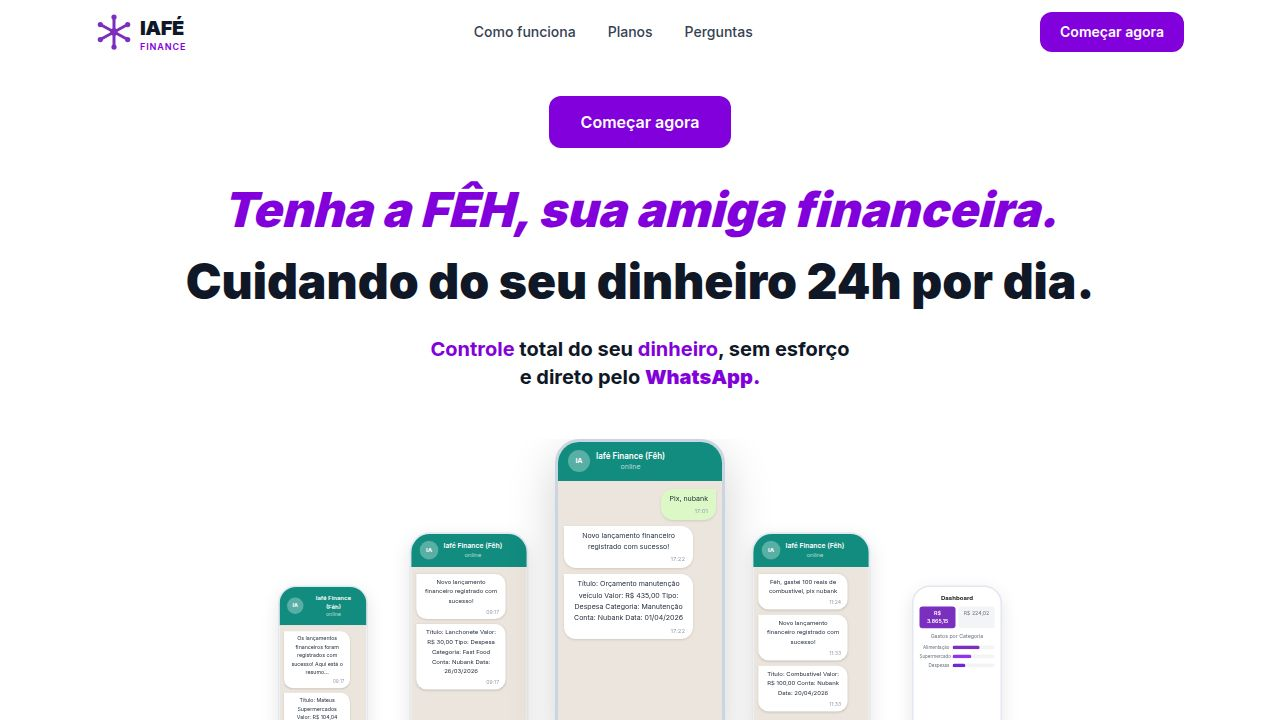
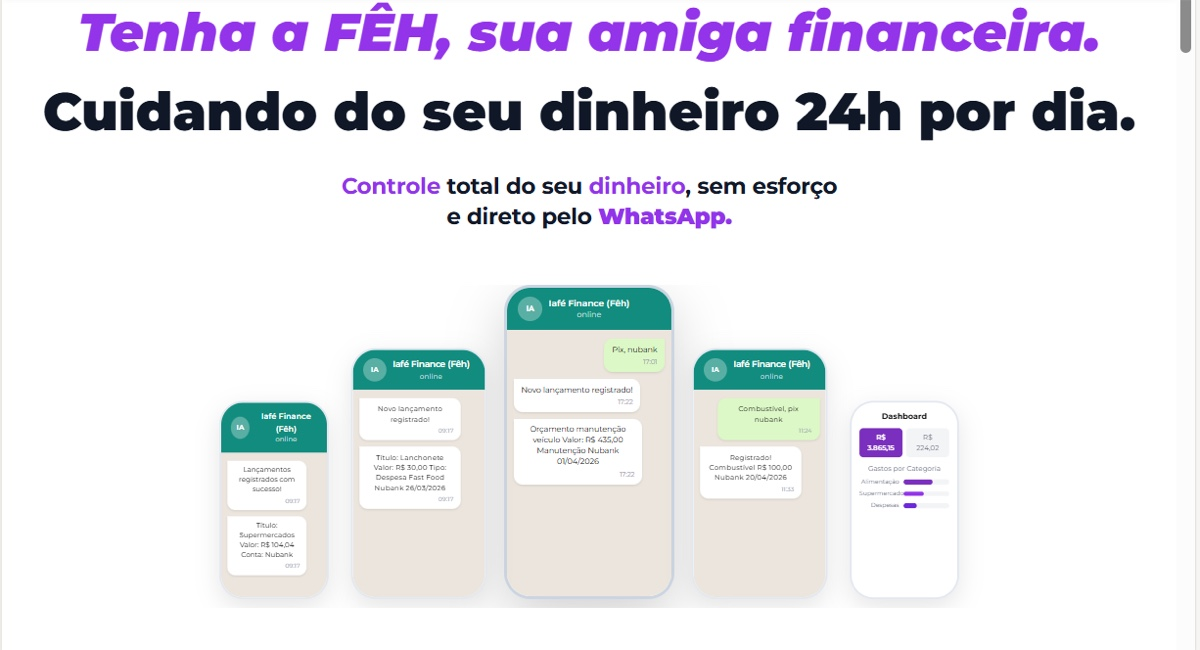
Atualiza preview Open Graph do WhatsApp com layout atual da LP.
Nova imagem opengraph.jpg e meta tags com URL absoluta para lpfi.iafeoficial.com.

diff --git a/artifacts/iafe-finance/index.html b/artifacts/iafe-finance/index.html
@@ -6,14 +6,22 @@
     <title>IAFÉ Finance — Sua amiga financeira no WhatsApp</title>
     <meta name="description" content="Controle total do seu dinheiro, sem esforço e direto pelo WhatsApp. Conheça a FÊH, assistente financeira com IA da IAFÉ Finance." />
     <meta name="robots" content="index, follow" />
+    <meta property="og:site_name" content="IAFÉ Finance" />
+    <meta property="og:locale" content="pt_BR" />
+    <meta property="og:url" content="https://lpfi.iafeoficial.com/" />
     <meta property="og:title" content="IAFÉ Finance — Sua amiga financeira no WhatsApp" />
     <meta property="og:description" content="Controle total do seu dinheiro, sem esforço e direto pelo WhatsApp. Conheça a FÊH, assistente financeira com IA." />
     <meta property="og:type" content="website" />
-    <meta property="og:image" content="/opengraph.jpg" />
+    <meta property="og:image" content="https://lpfi.iafeoficial.com/opengraph.jpg?v=2" />
+    <meta property="og:image:secure_url" content="https://lpfi.iafeoficial.com/opengraph.jpg?v=2" />
+    <meta property="og:image:type" content="image/jpeg" />
+    <meta property="og:image:width" content="1200" />
+    <meta property="og:image:height" content="650" />
+    <meta property="og:image:alt" content="IAFÉ Finance — controle financeiro pelo WhatsApp com a FÊH" />
     <meta name="twitter:card" content="summary_large_image" />
     <meta name="twitter:title" content="IAFÉ Finance — Sua amiga financeira no WhatsApp" />
     <meta name="twitter:description" content="Controle total do seu dinheiro, sem esforço e direto pelo WhatsApp." />
-    <meta name="twitter:image" content="/opengraph.jpg" />
+    <meta name="twitter:image" content="https://lpfi.iafeoficial.com/opengraph.jpg?v=2" />
     <link rel="icon" type="image/svg+xml" href="/favicon.svg" />
     <link rel="preconnect" href="https://fonts.googleapis.com">
     <link rel="preconnect" href="https://fonts.gstatic.com" crossorigin>